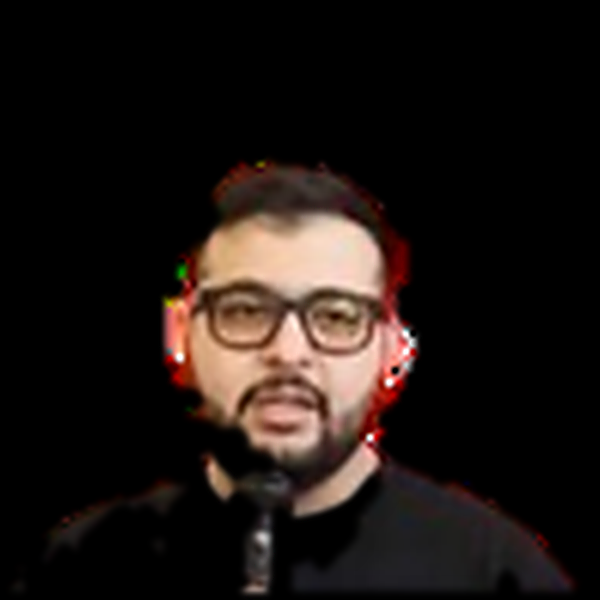
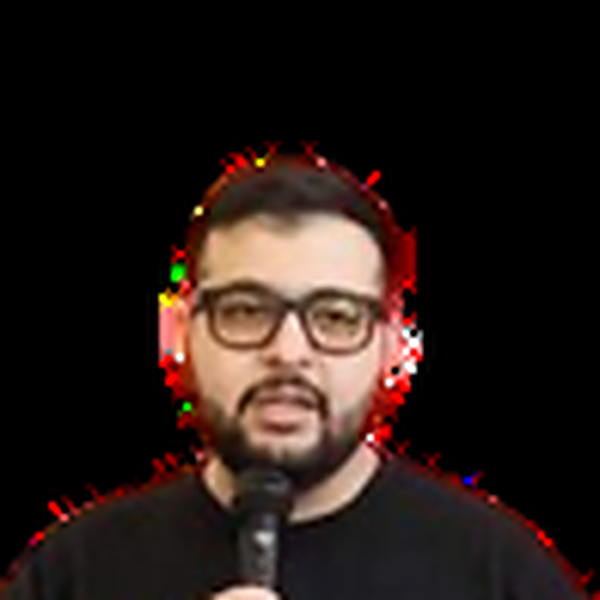
FIRA index: add Markham Pan Am Centre host-venue photo; revert Samia to natural crop
- "By the numbers": added the Markham Pan Am Centre venue banner (from deck) below the stats
- Samia portrait reverted to the previous tight natural-color crop

Changed region(s): [[0.0, 0.24, 1.0, 1.0]]

diff --git a/FIRARobocup2026/index.html b/FIRARobocup2026/index.html
@@ -65,6 +65,10 @@
         <span class="stat-chip"><b>Jul 16–21</b><small>2026</small></span>
         <span class="stat-chip"><b>First</b><small>in Canada</small></span>
       </div>
+      <figure class="ig-figure ig-figure--wide ig-figure--accent" style="margin-top:1.6rem">
+        <img src="assets/venue/markham-pan-am-centre.jpg" alt="The Markham Pan Am Centre — host venue of the FIRA RoboWorld Cup 2026" loading="lazy">
+        <figcaption>Markham Pan Am Centre · Host Venue · July 16–21, 2026</figcaption>
+      </figure>
     </div>
   </section>
 